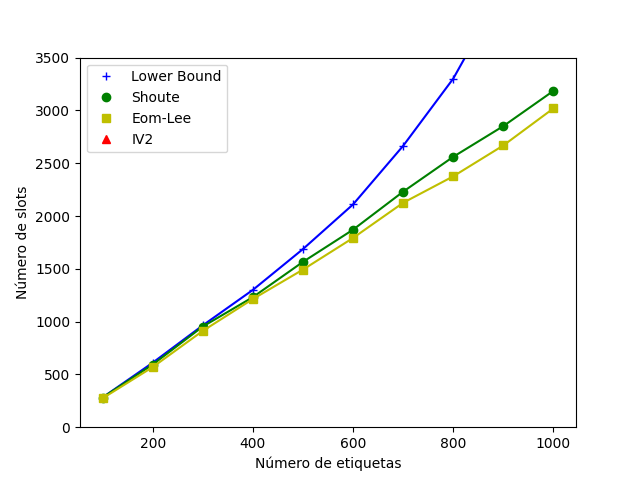
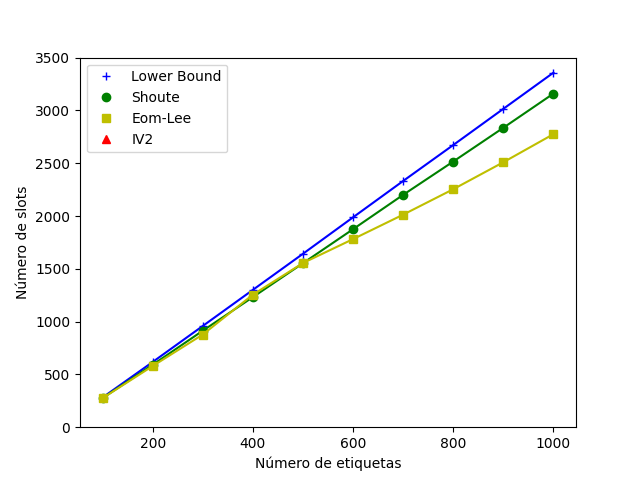
better plots

diff --git a/simulador/src/Estimator.cpp b/simulador/src/Estimator.cpp
@@ -22,7 +22,7 @@ double abs(double k) {
 }
 
 ull EomLeeEstimator::next_frames(SlottedAlohaInfo &info) {
-    double threshold = 0.5;
+    double threshold = 5e-5;
     double L = static_cast<double>(info.used_frame);
     double gamma_k, gamma = 2, beta = std::numeric_limits<double>::max();
     do {

diff --git a/README.md b/README.md
@@ -1,10 +1,18 @@
 Esse é um simulador para avaliação de desempenho de estimadores DFSA para cadeira de Sistemas de Comunicação
 
 ## Todos:
-- [ ] Implementar quadros com potência de 2
-- [ ] Implementar Shoute, Eom-Lee, IV2
+- [ ] Colocar grid nos gráficos
+- [ ] Checar implementação do Eom-Lee
+- [ ] Implementar IV2
 
 ## Easy run:
+Se estiver em um linux, usar [run-full.sh](./run-full.sh) **da pasta raiz do projeto**
+```bash
+git clone <url desse repo>
+cd simulador-dfsa
+sh run-full.sh
+```
+
 ```bash
 # se o executável gerado pelo cmake estiver na raiz do projeto:
 simulador --out plots/out && python plots/main.py plots/out.csv plots/images
